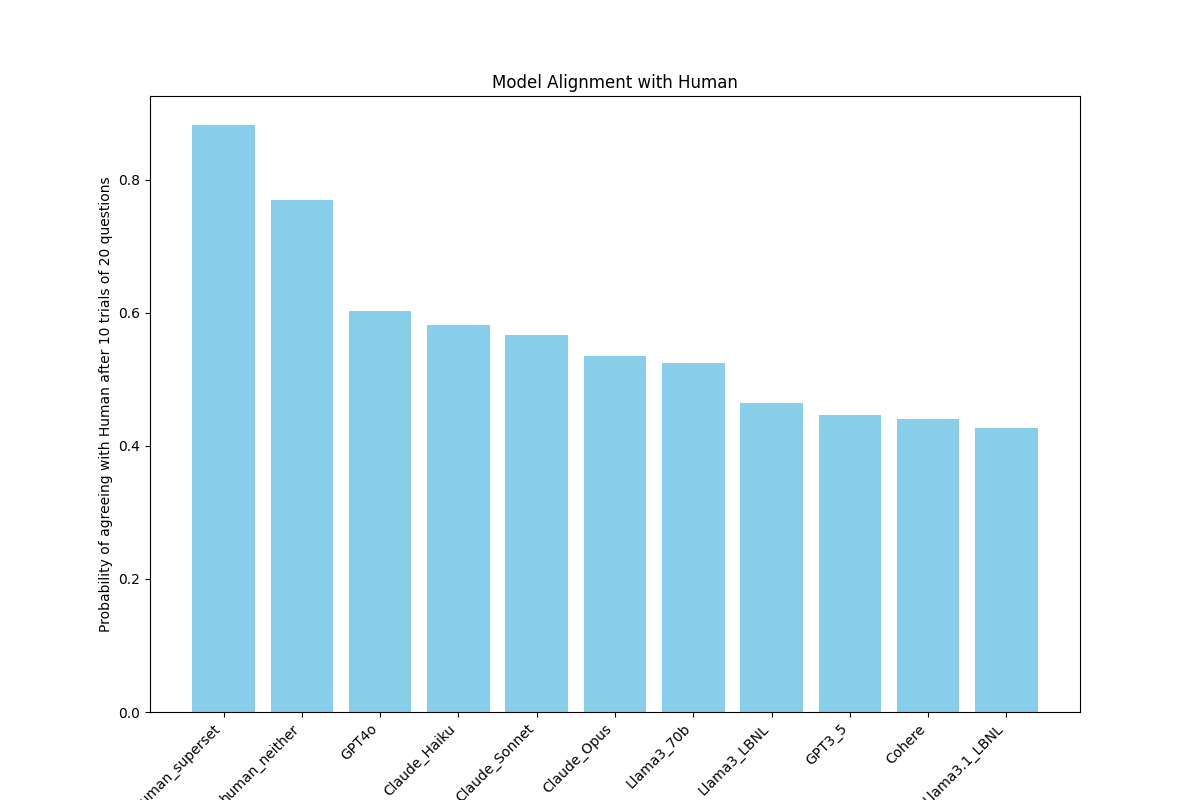
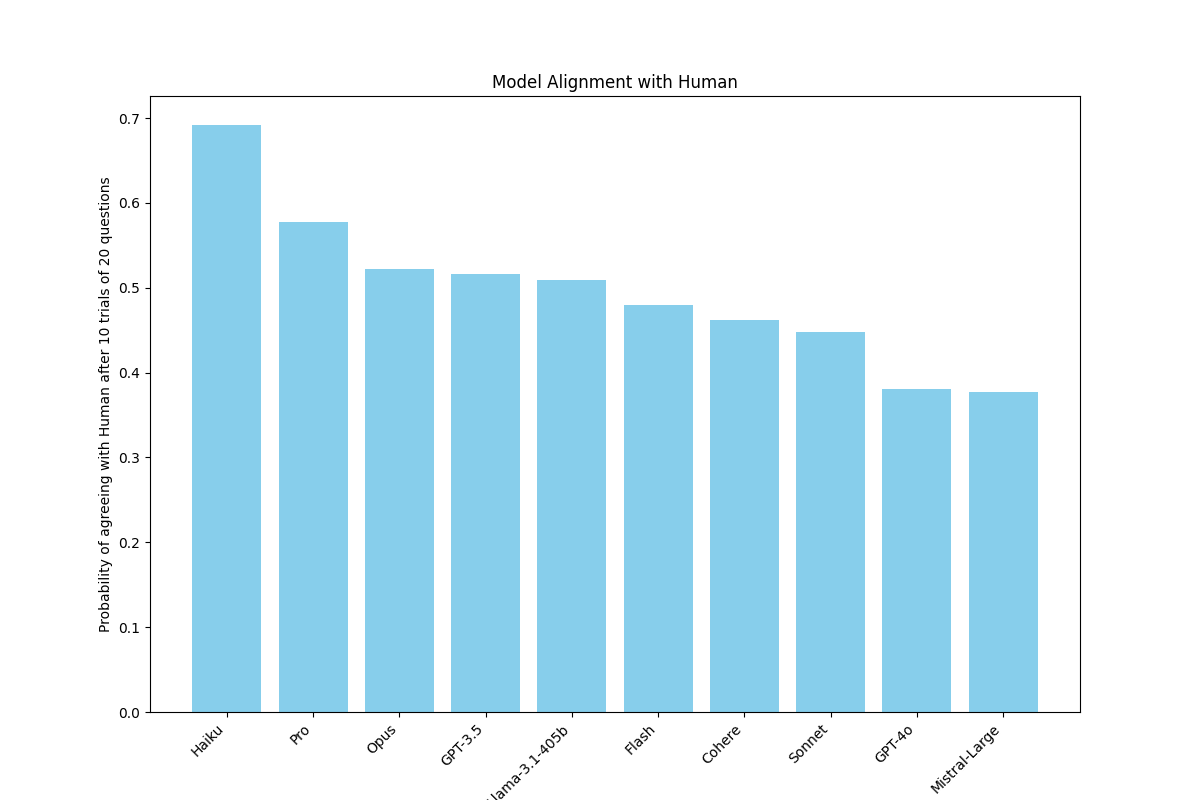
added a bradley terry and newest data

diff --git a/evaluator.py b/evaluator.py
@@ -10,7 +10,7 @@ from pathlib import Path
 
 # folder with the input jsons
 input_folder = Path("./data")
-human_reference = 'human_all'
+human_reference = 'human'
 
 # on how many questions are two models compared in a trial
 nb_questions_per_trial = 20
@@ -117,6 +117,64 @@ def compute_judges_win_probability(contestants_index, all_contests:Dict[str,Dict
 judges_nbmatch_matrices, judges_probability_matrices = compute_judges_win_probability(contestants_index, contests_data, laplacian_smoothing=1)
 
 #--------------------------------------------------------------------------------------------------
+# Bradley-Terry MODEL
+
+def compute_bradley_terry(match_matrix, probs_matrix, max_iter=100, tol=1e-4):
+    """
+    Computes the Bradley-Terry probabilities using the iterative method.
+
+    Parameters:
+    - match_matrix: A 2D numpy array where [i, j] contains the number of matches between model i and model j.
+    - probs_matrix: A 2D numpy array where [i, j] contains the probability that model i won against model j.
+    - max_iter: Maximum number of iterations for convergence.
+    - tol: Tolerance for convergence.
+
+    Returns:
+    - prop: A 2D numpy array where [i, j] contains the probability that model i wins against model j.
+    """
+    # Computes Bradley-Terry scores iteratively
+    n_models = match_matrix.shape[0]  # Number of models
+    ratings = np.ones(n_models)  # Initialize all ratings to 1
+    wins_matrix = probs_matrix * match_matrix
+    for iteration in range(max_iter):
+        # updates ratings
+        new_ratings = np.zeros_like(ratings)
+        for i in range(n_models):
+            numerator = np.sum(wins_matrix[i,:] * ratings / (ratings[i] + ratings))
+            denominator = np.sum(wins_matrix[:,i] / (ratings[i] + ratings))
+            new_ratings[i] = numerator / denominator
+
+        # Normalize ratings by their geometric mean
+        new_ratings /= stats.gmean(new_ratings + 1e-10)  # Avoid log(0) by adding a small value
+        # Check for convergence
+        if np.max(np.abs(new_ratings - ratings)) < tol:
+            break
+
+        ratings = new_ratings
+
+    # Compute the probabilities
+    prop = np.zeros_like(match_matrix, dtype=float)
+    for i in range(n_models):
+        for j in range(n_models):
+            if i != j:
+                prop[i, j] = ratings[i] / (ratings[i] + ratings[j])
+    return prop
+
+def compute_judges_bradley_terry(judges_match_matrices, judges_prob_matrices, max_iter=100, tol=1e-4):
+    result = dict()
+    for judge, match_matrix in judges_match_matrices.items():
+        probs_matrix = judges_prob_matrices[judge]
+        bt_matrix = compute_bradley_terry(match_matrix, probs_matrix, max_iter, tol)
+        result[judge] = bt_matrix
+    return result
+
+# uses bradley terry to smooth probabilities
+# on ALL models
+# judges_probability_matrices = compute_judges_bradley_terry(judges_nbmatch_matrices, judges_probability_matrices)
+# on the human ONLY
+# judges_probability_matrices[human_reference] = compute_bradley_terry(judges_nbmatch_matrices[human_reference], judges_probability_matrices[human_reference])
+
+#--------------------------------------------------------------------------------------------------
 # COMPUTE MAJORITY WIN PROBABILITY
 
 def compute_majority_win_probability(win_probability:float, nb_questions_per_trial:int) -> float:
@@ -216,7 +274,10 @@ def agreement_probability(prob_vector1, prob_vector2):
 
 def compute_alignment(models_dict):
     # Extract the human model's probability vector
-    human_prob_vector = models_dict.get(human_reference)
+    if human_reference in models_dict:
+        human_prob_vector = models_dict.get(human_reference)
+    else:
+        raise RuntimeError(f"There is no '{human_reference}' in our data.")
     
     # Initialize a dictionary to store the alignment results
     alignment_dict = {}
@@ -243,6 +304,8 @@ def plot_integermatrix(judges_dict, contestants_index, output_folder):
     contestants_index (dict): A dictionary where keys are model names (str) and values are the index (int) corresponding to row/col in the matrix.
     output_folder (Path): The path to the output folder where heatmaps should be saved.
     """
+    # ensures the folder exists
+    output_folder.mkdir(exist_ok=True)
     # Convert the contestants_index dictionary to a list for ordering labels
     index_to_label = {v: k for k, v in contestants_index.items()}
     labels = [index_to_label[i] for i in range(len(index_to_label))]
@@ -274,6 +337,8 @@ def plot_heatmaps(judges_dict, contestants_index, output_folder):
     contestants_index (dict): A dictionary where keys are model names (str) and values are the index (int) corresponding to row/col in the matrix.
     output_folder (Path): The path to the output folder where heatmaps should be saved.
     """
+    # ensures the folder exists
+    output_folder.mkdir(exist_ok=True)
     # Convert the contestants_index dictionary to a list for ordering labels
     index_to_label = {v: k for k, v in contestants_index.items()}
     labels = [index_to_label[i] for i in range(len(index_to_label))]
@@ -298,6 +363,8 @@ def plot_heatmaps(judges_dict, contestants_index, output_folder):
         plt.close()
 
 def plot_judges_probabilities(judges_end_probas, contestants_index, output_dir):
+    # ensures the folder exists
+    output_dir.mkdir(exist_ok=True)
     # Inverse the contestants_index dictionary to map indices to chatbot names
     index_to_chatbot = {v: k for k, v in contestants_index.items()}
     
@@ -324,6 +391,8 @@ def plot_judges_probabilities(judges_end_probas, contestants_index, output_dir):
         plt.close()
 
 def plot_pca(judges_end_probas, output_folder):
+    # ensures the folder exists
+    output_folder.mkdir(exist_ok=True)
     # Convert dictionary values to a 2D matrix
     prob_matrix = np.array(list(judges_end_probas.values()))
     names = list(judges_end_probas.keys())
